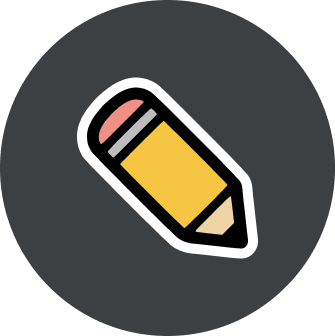
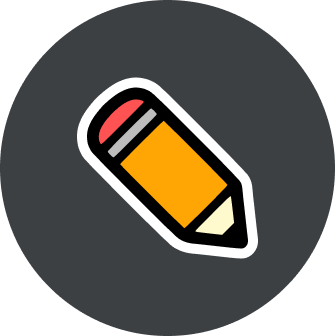
modification to css and other

Changed region(s): [[0.3582, 0.3571, 0.7164, 0.7143], [0.2985, 0.2976, 0.4478, 0.4464]]

diff --git a/telegram_bot/static/example/webapp.css b/telegram_bot/static/example/webapp.css
@@ -1,3 +1,4 @@
+@import url('https://fonts.googleapis.com/css2?family=DM+Sans:wght@400;500;600;700;800&display=swap');
 @import url('https://fonts.googleapis.com/css2?family=Bricolage+Grotesque:wght@400;500;600;700;800&display=swap');
 
 @font-face {
@@ -8,7 +9,7 @@
 
 :root {
     --safe-bottom: env(safe-area-inset-bottom, 0px);
-    --safe-top: env(safe-area-inset-top, 0px);
+    --safe-top: env(safe-area-inset-top, 45px);
     --tg-safe-area-top: var(--tg-content-safe-area-inset-top, env(safe-area-inset-top, 20px));
     --header-padding-top: calc(var(--tg-safe-area-top) + 36px);
     
@@ -90,6 +91,7 @@ html, body {
 }
 
 #search-input {
+    font-family: 'DM Sans', sans-serif;
     flex: 1;
     background: transparent;
     border: none;
@@ -431,6 +433,7 @@ html, body {
 }
 
 .sheet-title {
+    font-family: 'Bricolage Grotesque', sans-serif;
     font-size: 20px;
     font-weight: 700;
     color: var(--color-text-primary);
@@ -451,7 +454,6 @@ html, body {
     display: flex;
     justify-content: center;
     align-items: center;
-    border: 1px solid rgba(255, 255, 255, 0.05);
 }
 
 .sheet-icon-container svg {
@@ -626,6 +628,7 @@ html, body {
 }
 
 .settings-header h2 {
+    font-family: "Bricolage Grotesque", sans-serif;
     font-size: 22px;
     font-weight: 700;
     margin: 0;
@@ -939,16 +942,16 @@ input:checked + .slider:before {
 }
 
 .add-header {
-    padding: calc(var(--safe-top) + 20px) 20px 16px 20px;
-    background: rgba(32, 41, 49, 0.8);
+    padding: 65px 20px 16px 20px;
     backdrop-filter: blur(12px);
     border-bottom: 1px solid rgba(255, 255, 255, 0.08);
 }
 
 .add-header h2 {
+    font-family: 'Bricolage Grotesque', sans-serif;
     margin: 0;
     font-size: 22px;
-    font-weight: 800;
+    font-weight: 600;
     color: var(--color-text-primary);
 }
 
@@ -1210,7 +1213,7 @@ input:checked + .slider:before {
     display: flex;
     align-items: center;
     justify-content: space-between;
-    padding: calc(var(--safe-top) + 16px) 16px 14px 16px;
+    padding: 65px 16px 14px 16px;
     background: var(--color-secondary);
     border-bottom: 1px solid rgba(255, 255, 255, 0.08);
     z-index: 110;
@@ -1327,11 +1330,8 @@ input:checked + .slider:before {
 
 .preset-sheet {
     position: relative;
-    background: #202127;
-    border-top-left-radius: 24px;
-    border-top-right-radius: 24px;
+    background: #202124;
     padding: 20px 20px calc(var(--safe-bottom) + 24px) 20px;
-    border-top: 1px solid rgba(255, 255, 255, 0.1);
     z-index: 125;
     animation: slideUpSheet 0.25s cubic-bezier(0.1, 0.9, 0.2, 1);
 }
@@ -1359,8 +1359,9 @@ input:checked + .slider:before {
 .preset-close-btn {
     background: none;
     border: none;
-    color: var(--color-text-secondary);
-    font-size: 24px;
+    color: #E8EAED;
+    font-weight: 200;
+    font-size: 30px;
     cursor: pointer;
     display: flex;
     align-items: center;
@@ -1417,9 +1418,10 @@ input:checked + .slider:before {
 }
 
 .preset-grid-card span {
-    font-size: 12px;
-    font-weight: 600;
-    color: var(--color-text-primary);
+    font: Roboto;
+    font-size: 14px;
+    font-weight: 440;
+    color: #E8EAEC;
     line-height: 1.2;
 }
 

diff --git a/telegram_bot/templates/example/webapp.html b/telegram_bot/templates/example/webapp.html
@@ -237,7 +237,7 @@
         <!-- Logged-in state -->
         <div class="add-logged-in" id="add-logged-in" style="display: none;">
             <div class="add-header">
-                <h2>Add Piano Location</h2>
+                <h2>Add</h2>
             </div>
             
             <div class="add-form-scroll">
